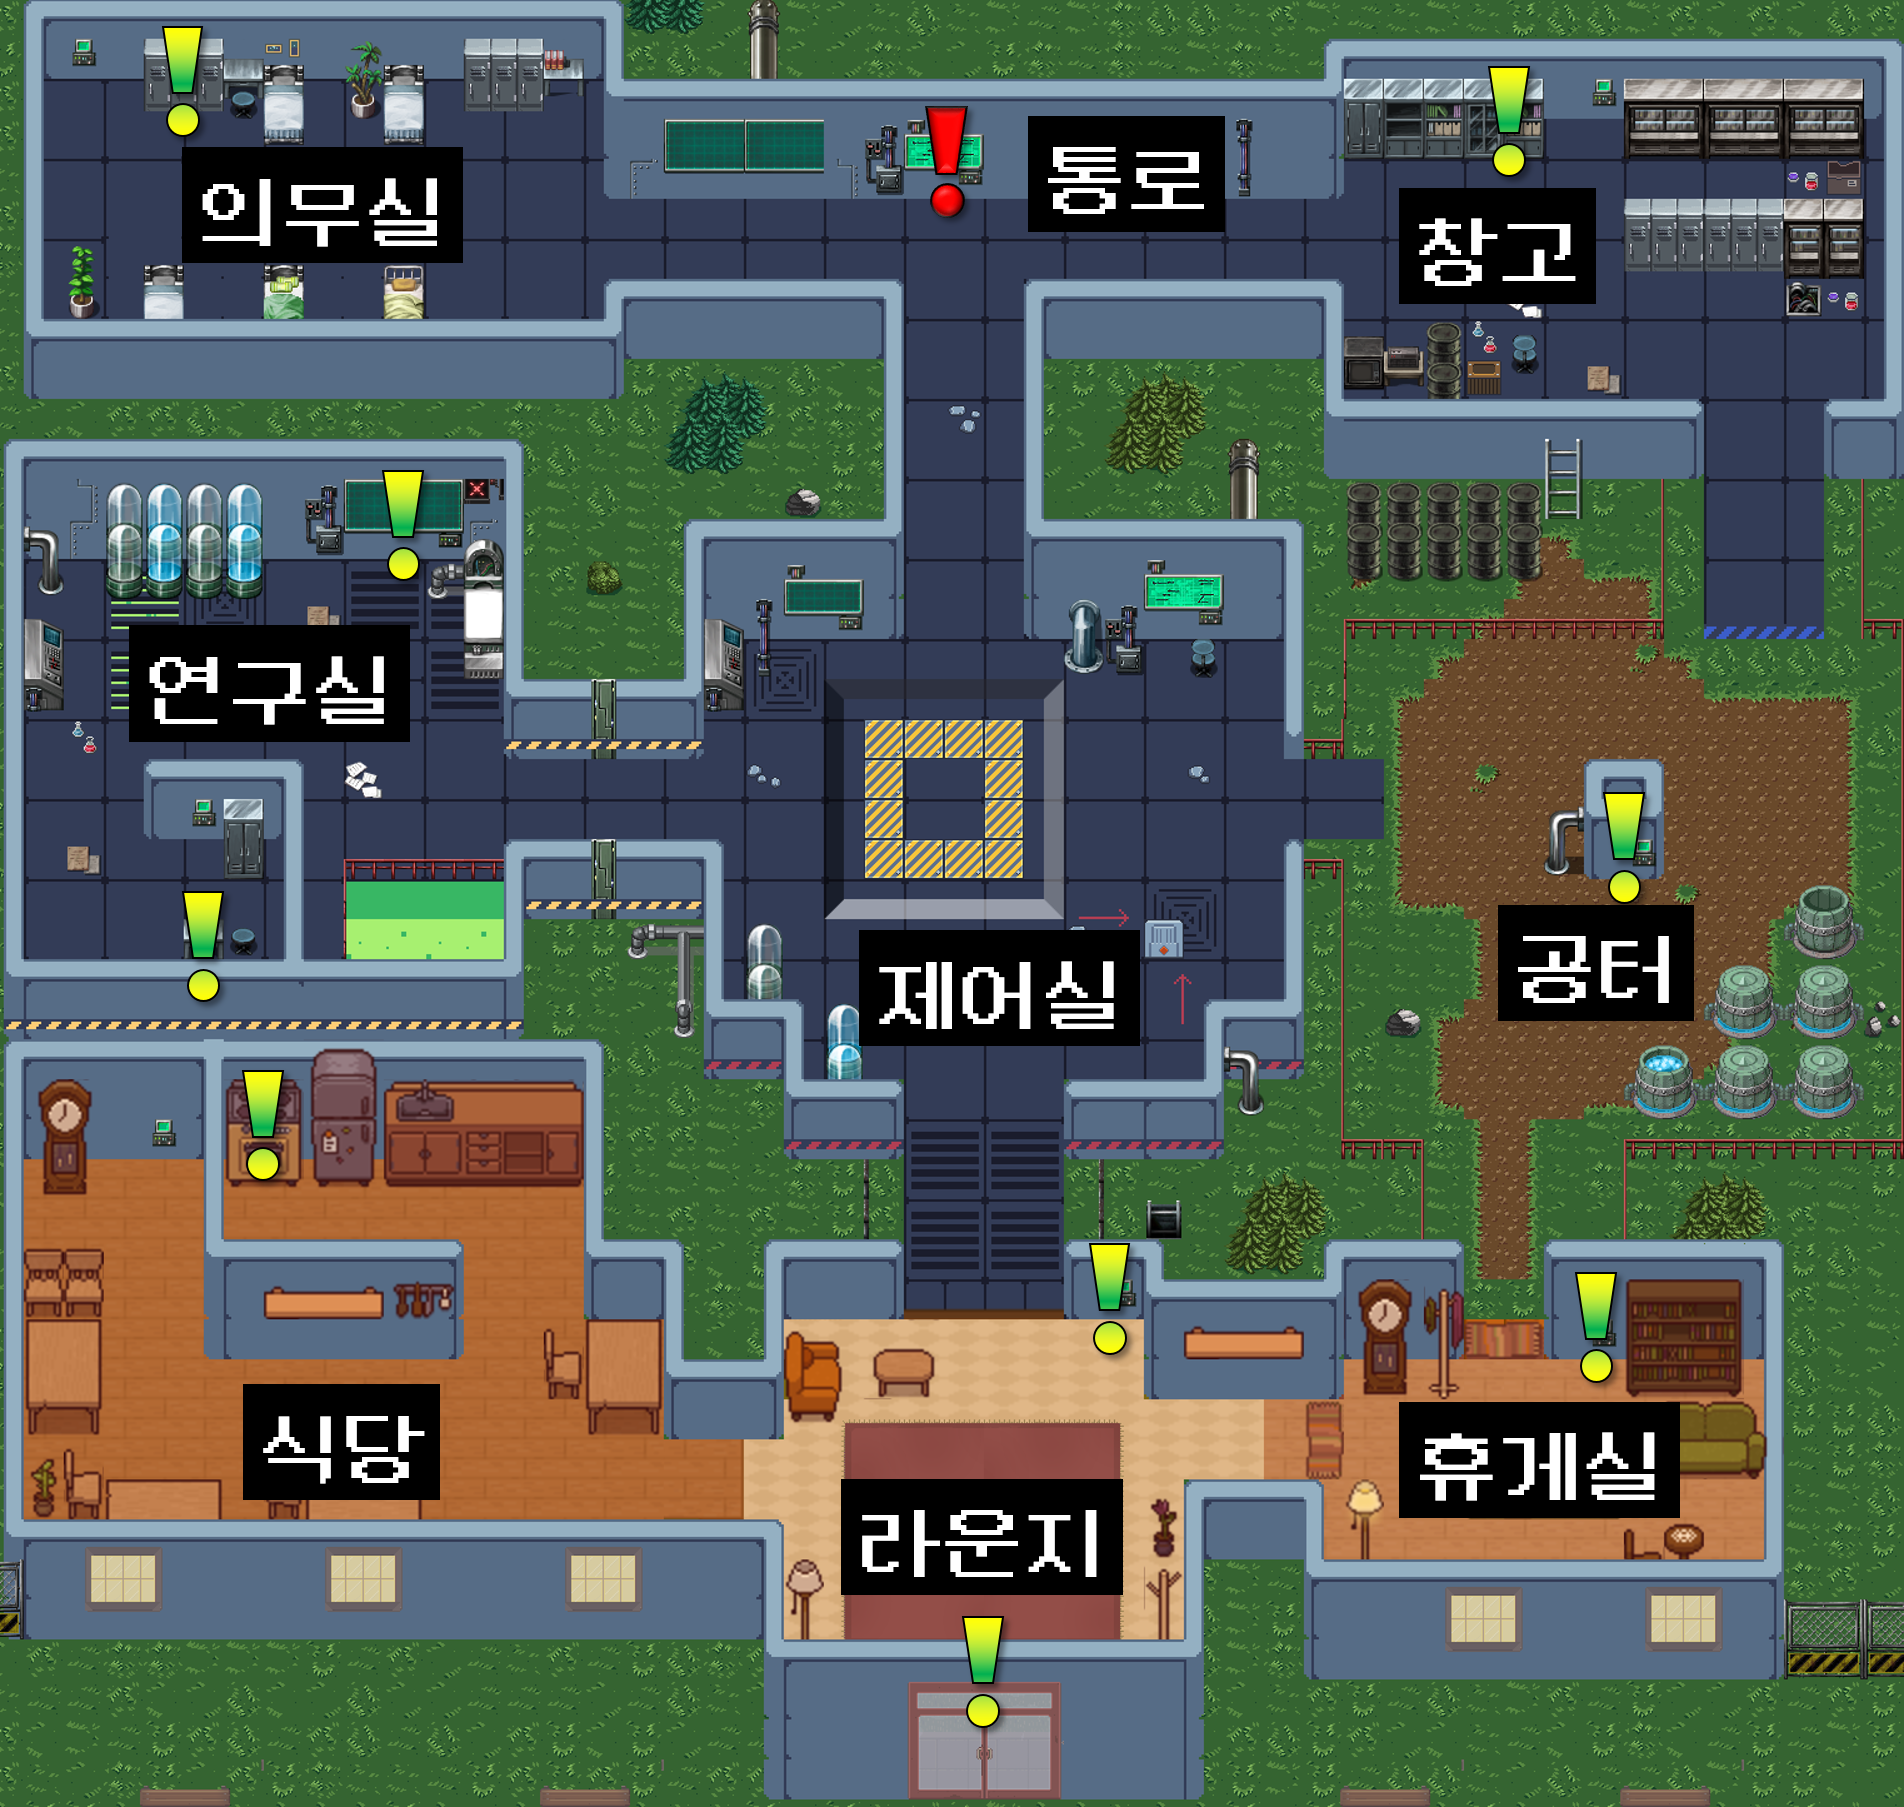
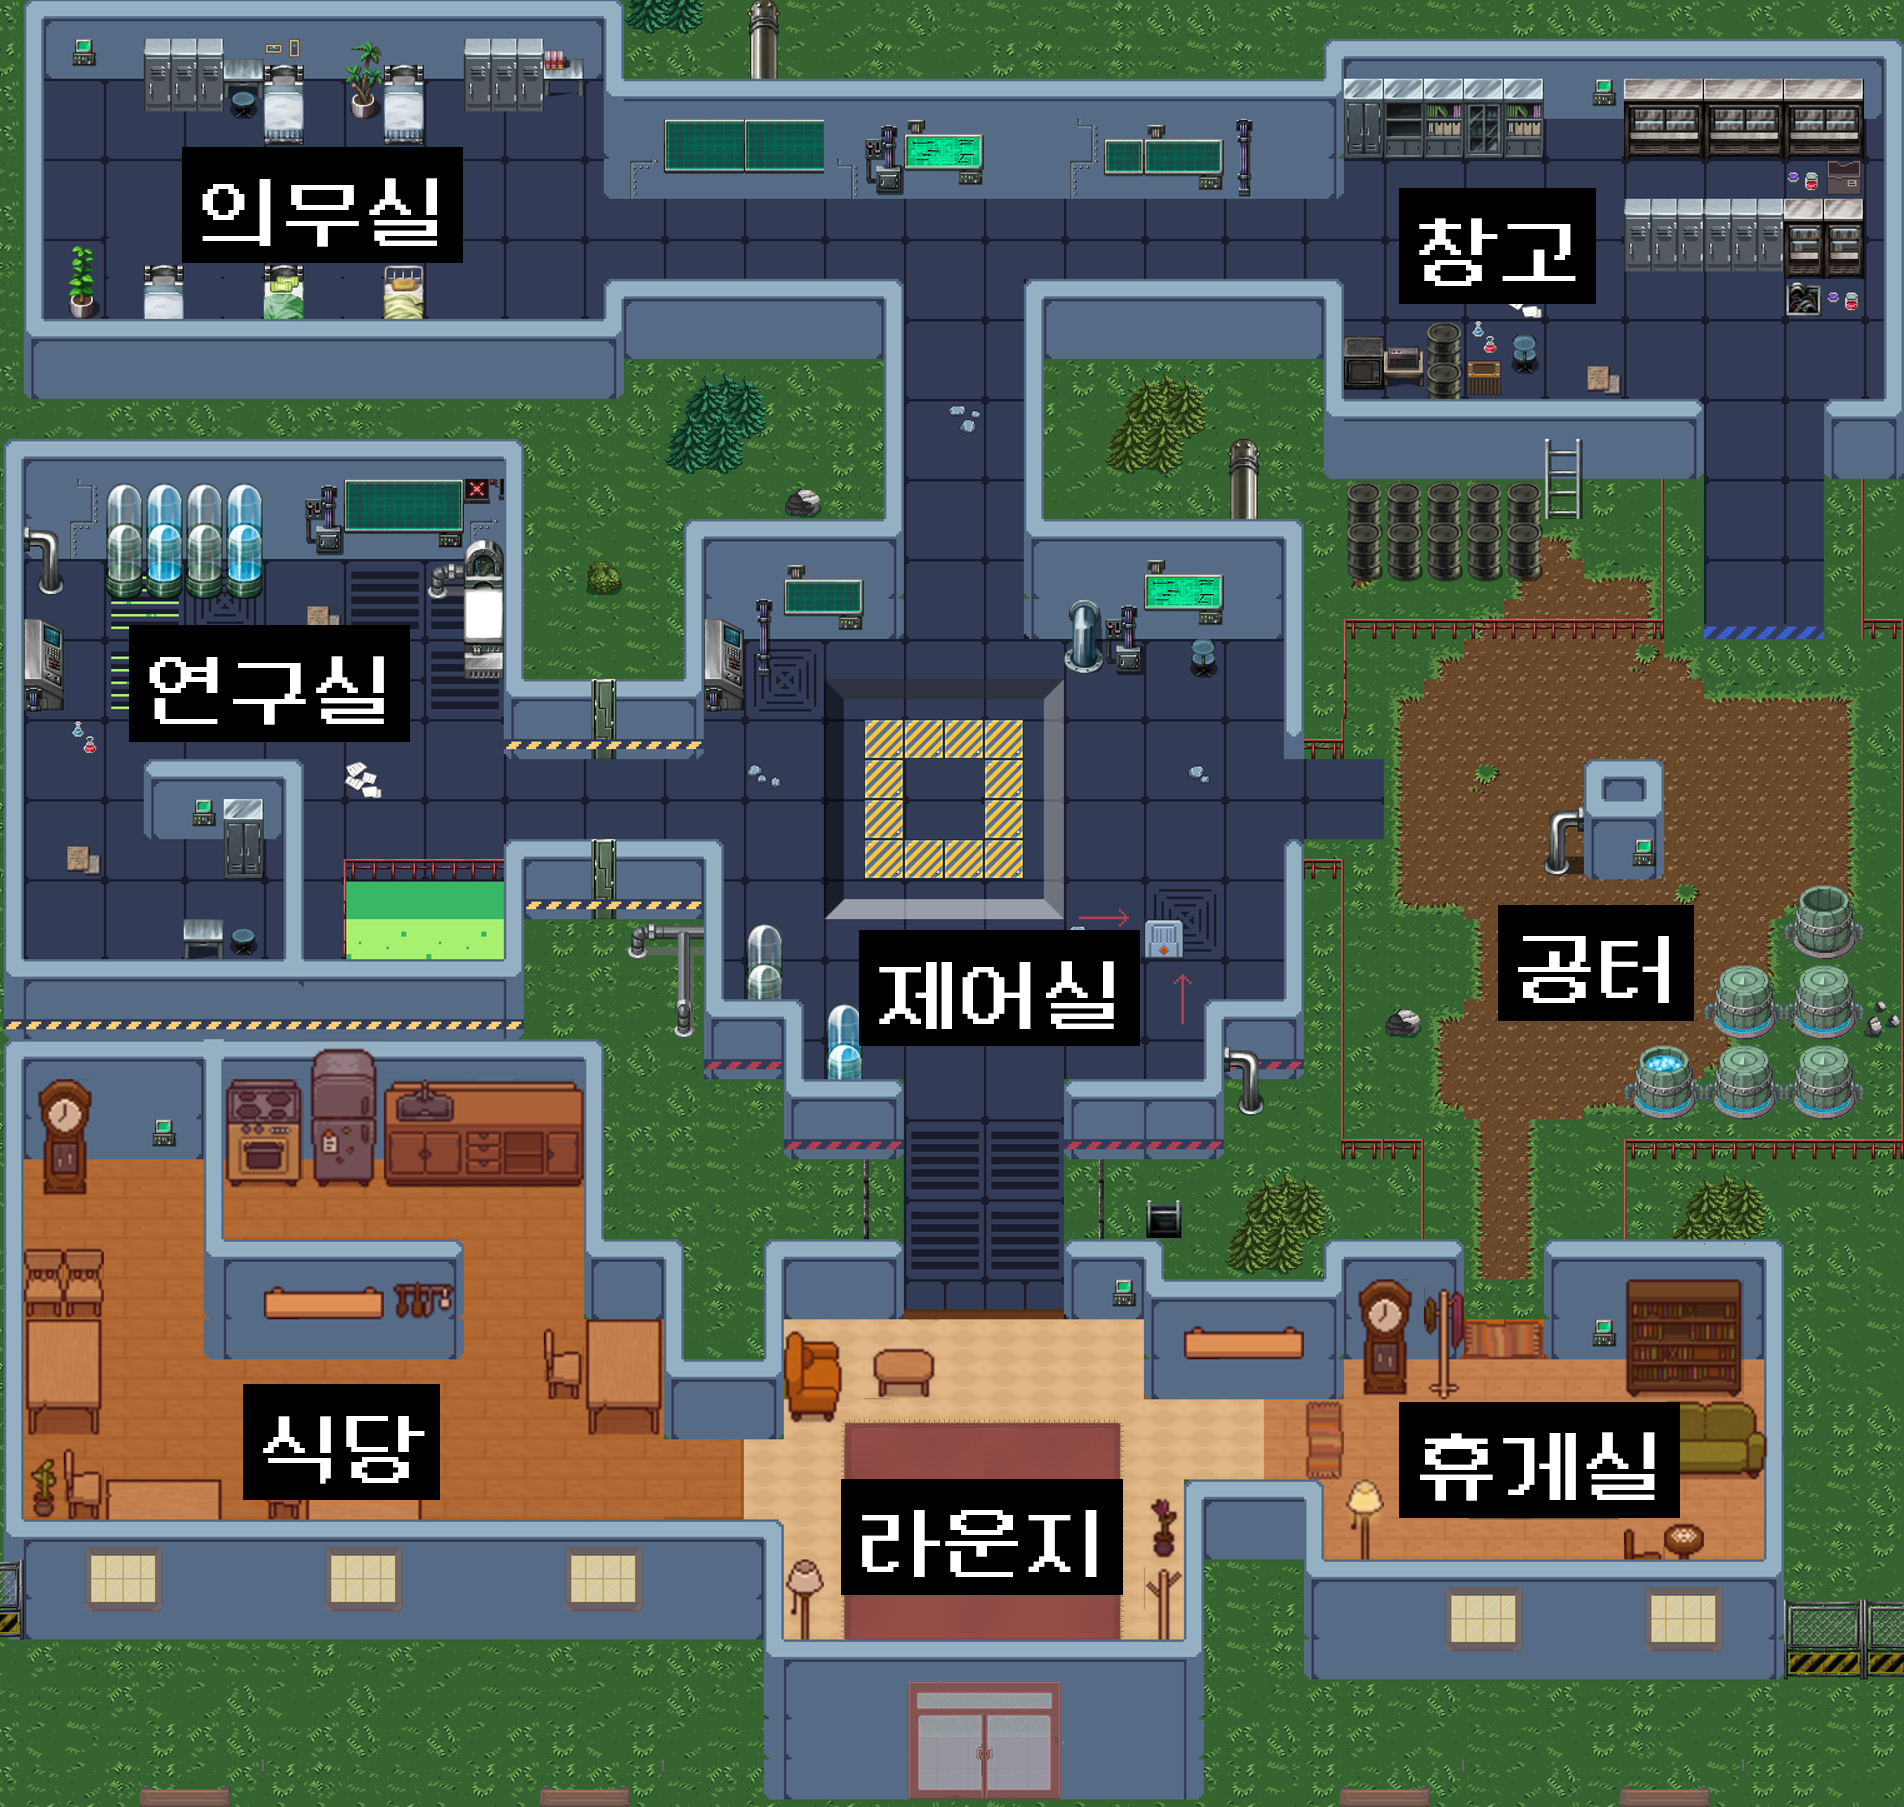
Revert "Merge branch 'feature/fe-mapFix-pdh' into 'develop'"
This reverts merge request !136

diff --git a/frontend/src/components/game/canvas/myCharacter.jsx b/frontend/src/components/game/canvas/myCharacter.jsx
@@ -116,24 +116,16 @@ const MyCharacter = ({ color }) => {
               action('gameInfo/setAdjacentMeetingBtn', true)
             } else if (e.colliderObject.name.search('mission') >= 0) { // 미션 버튼
               action('missionInfo/setAdjacentMissionBtn', e.colliderObject.name[e.colliderObject.name.length-1])
+              // console.log(e.colliderObject.name[e.colliderObject.name.length-1])
             } else {                                                  // 유저들
               action('me/setAdjustPlayer', e.colliderObject.name)
             }
 
 
           }}
-          onIntersectionExit={(e) => {
-
-            if (e.colliderObject.name.search('dead') >= 0) {         // 시체
-              action('me/setAdjustBody', null)
-            } else if (e.colliderObject.name.search('meeting') >= 0) { // 회의 버튼
-              action('gameInfo/setAdjacentMeetingBtn', false)
-            } else if (e.colliderObject.name.search('mission') >= 0) { // 미션 버튼
-              action('missionInfo/setAdjacentMissionBtn', false)
-            } else {                                                  // 유저들
-              action("me/setAdjustPlayer", null)
-            }
-            
+          onIntersectionExit={() => {
+            action("me/setAdjustPlayer", null)
+            action('me/setAdjustBody', null)
           }}
         />}
         <CylinderCollider

diff --git a/frontend/src/config/mapObject.js b/frontend/src/config/mapObject.js
@@ -1,15 +1,11 @@
 const missionsLocation = [
-    { id : 1, col : 17.5, row : -1.5}, // 공터
-    { id : 2, col : 14, row : 16.5}, // 창고
-    { id : 3, col : -18.5, row : -3.5}, // 연구실
-    { id : 4, col : -17, row : -9.5}, // 식당
-    { id : 5, col : -19, row : 17.5}, // 의무실
+    { id : 1, col : -21.5, row : 18.5}, // 의무실
+    { id : 2, col : -18.5, row : -0.5}, // 연구실
+    { id : 3, col : 17.5, row : -1.5}, // 공터
+    { id : 4, col : 16.5, row : 17.5}, // 창고
+    { id : 5, col : -19.5, row : -8.5}, // 식당
     { id : 6, col : 4.5, row : -12.5}, // 라운지
     { id : 7, col : 16.5, row : -13.5}, // 휴게실
-    { id : 8, col : -13.5, row : 6}, // 연구실2
-    { id : 9, col : 1, row : -20}, // 라운지2
-    // { id : 10, col : 0, row : 15}, // 연결통로
-
 ]
 
 // 공통 미션 좌표 16.5 17.5 (맨 오른쪽 위) // 창고

diff --git a/frontend/src/components/game/mesh/deadMesh.jsx b/frontend/src/components/game/mesh/deadMesh.jsx
@@ -3,13 +3,13 @@ import { forwardRef, Suspense, useEffect, useMemo, useRef } from "react";
 import { useFrame } from "react-three-fiber";
 import { Vector3, RepeatWrapping } from "three";
 
-import { TEXTURE_WIDTH, TEXTRUE_HEIGHT, FPS, MOTION, COLOR } from "config/texture";
+import { TEXTURE_WIDTH, TEXTRUE_HEIGHT, FPS, MOTION } from "config/texture";
 
-const DeadMesh = ({color=0}) => {
+const DeadMesh = () => {
   // 텍스쳐 설정
   // const texture = useTexture('/player/players_blue_x1.png')
   const originTexture = useTexture(
-    `/testImg/char_color/char_${COLOR[color]}.png`,
+    "/player/AnimationSheet_Character.png",
     (texture) => {
       texture.wrapS = texture.wrapT = RepeatWrapping;
     }

diff --git a/frontend/src/app/saga/sgags.js b/frontend/src/app/saga/sgags.js
@@ -168,7 +168,8 @@ const channelHandling = {
     switch (operation) {
       // 미팅 시작 알림 받음
       case 'START':
-
+        // 시체들 초기화
+        yield put({ type: "dead/setDeadList", payload: [] })
         yield put({ type: "gameInfo/setInMeeting", payload: true })
         yield delay(1000)
         yield put({ type: "gameInfo/setGameStop", payload: true })
@@ -191,9 +192,6 @@ const channelHandling = {
         yield put({ type: "gameInfo/setGameStop", payload: false })
 
         // 투표 관련 초기화
-
-        // 시체들 초기화
-        yield put({ type: "dead/setDeadList", payload: [] })
 
         const stateMe = yield select(state => state.me);
 

diff --git a/frontend/src/components/game/canvas/deadCharacter.jsx b/frontend/src/components/game/canvas/deadCharacter.jsx
@@ -2,7 +2,7 @@ import { CuboidCollider, RigidBody } from "@react-three/rapier";
 import { useEffect, useRef } from "react";
 import DeadMesh from "../mesh/deadMesh";
 
-const DeadCharacter = ({ position, color, id }) => {
+const DeadCharacter = ({ position, id }) => {
 
     const ref = useRef()
 
@@ -13,7 +13,7 @@ const DeadCharacter = ({ position, color, id }) => {
 
     return (<>
         <RigidBody ref={ref} colliders={false} type="dynamic" lockRotations={true}>
-            <DeadMesh color={color} />
+            <DeadMesh />
             <CuboidCollider
                 args={[0.5, 0.5, 0.1]}
                 sensor

diff --git a/frontend/src/components/game/canvas/gameCanvas.jsx b/frontend/src/components/game/canvas/gameCanvas.jsx
@@ -47,7 +47,7 @@ const GameCanvas = () => {
             ))}
             {deadList.map((dead, idx) => (
               <DeadCharacter
-                color={dead.player.color}
+                // color={dead.player.color}
                 id={`${dead.player.id}`}
                 position={dead.location}
                 key={`${dead.player.id}${idx}`}

diff --git a/frontend/src/app/me.js b/frontend/src/app/me.js
@@ -2,7 +2,7 @@ import { createSlice } from "@reduxjs/toolkit";
 
 const initialState = {
   // 내 플레이어 정보
-  player: { id: "player1" , isAlive: true , role : "CITIZEN", missions: []},
+  player: { id: "player1" , isAlive: true , role : "MAFIA"},
   location: {
     y: 0,
     x: 0,
